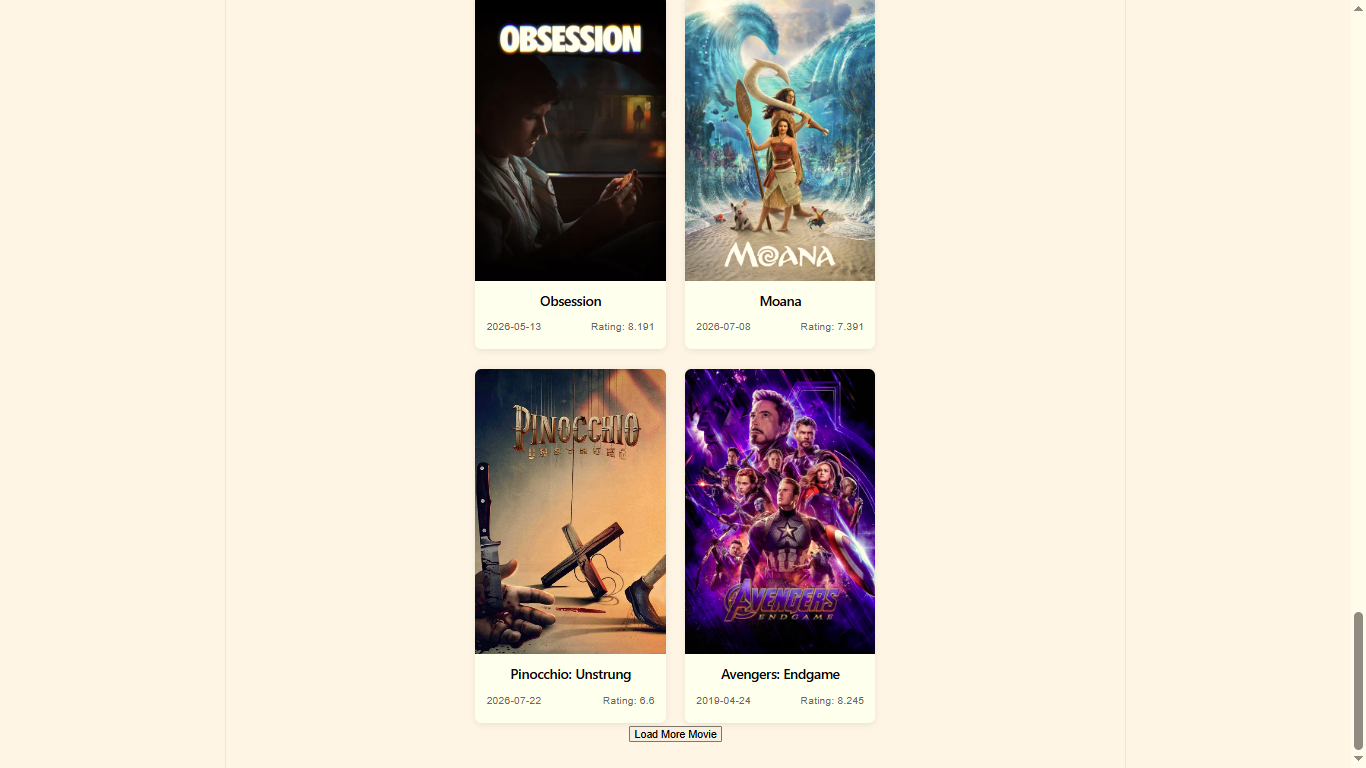
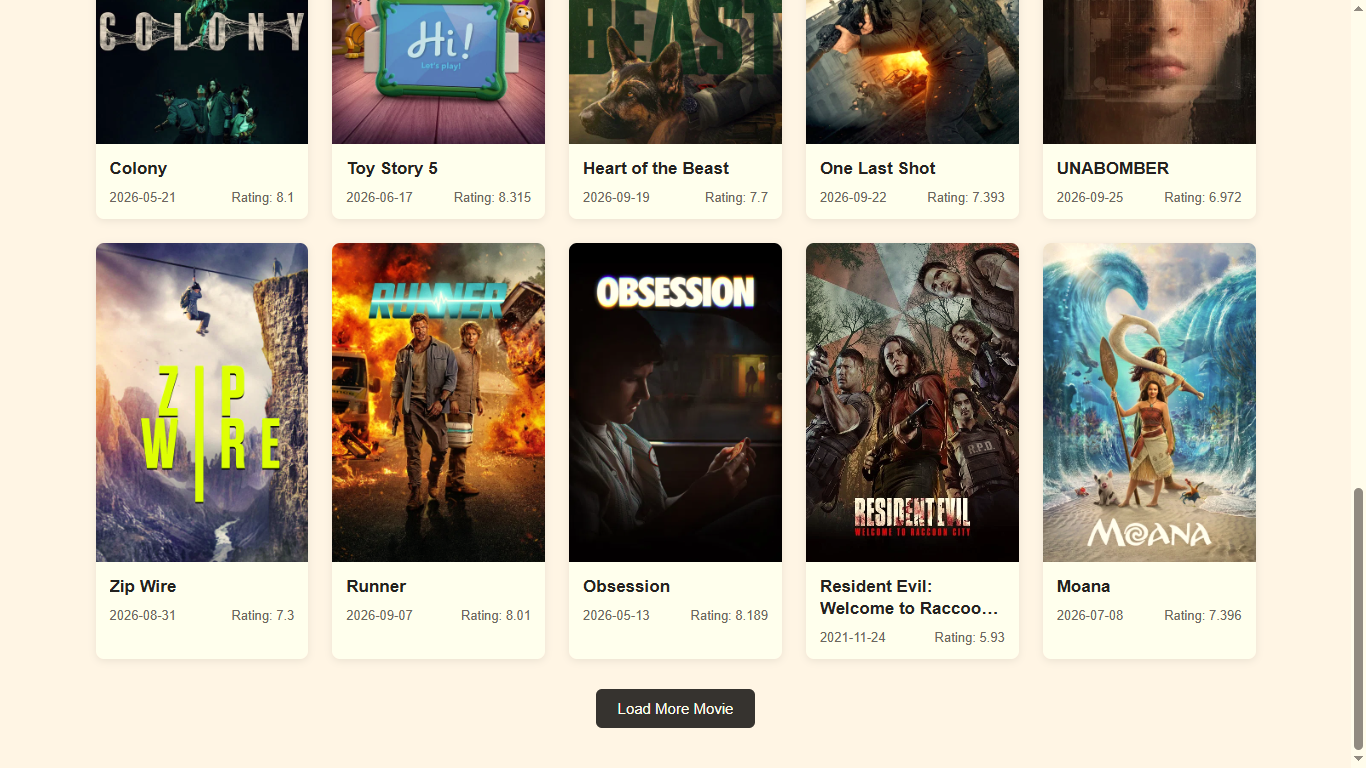
First Commit

diff --git a/frontend/src/index.css b/frontend/src/index.css
@@ -1,115 +1,15 @@
-:root {
-  --text: #6b6375;
-  --text-h: #08060d;
-  --bg: #fff;
-  --border: #e5e4e7;
-  --code-bg: #f4f3ec;
-  --accent: #aa3bff;
-  --accent-bg: rgba(170, 59, 255, 0.1);
-  --accent-border: rgba(170, 59, 255, 0.5);
-  --social-bg: rgba(244, 243, 236, 0.5);
-  --shadow:
-    rgba(0, 0, 0, 0.1) 0 10px 15px -3px, rgba(0, 0, 0, 0.05) 0 4px 6px -2px;
-
-  --sans: system-ui, 'Segoe UI', Roboto, sans-serif;
-  --heading: system-ui, 'Segoe UI', Roboto, sans-serif;
-  --mono: ui-monospace, Consolas, monospace;
-
-  font: 18px/145% var(--sans);
-  letter-spacing: 0.18px;
-  color-scheme: light dark;
-  color: var(--text);
-  background: var(--bg);
-  font-synthesis: none;
-  text-rendering: optimizeLegibility;
-  -webkit-font-smoothing: antialiased;
-  -moz-osx-font-smoothing: grayscale;
-
-  @media (max-width: 1024px) {
-    font-size: 16px;
-  }
-}
-
-@media (prefers-color-scheme: dark) {
-  :root {
-    --text: #9ca3af;
-    --text-h: #f3f4f6;
-    --bg: #16171d;
-    --border: #2e303a;
-    --code-bg: #1f2028;
-    --accent: #c084fc;
-    --accent-bg: rgba(192, 132, 252, 0.15);
-    --accent-border: rgba(192, 132, 252, 0.5);
-    --social-bg: rgba(47, 48, 58, 0.5);
-    --shadow:
-      rgba(0, 0, 0, 0.4) 0 10px 15px -3px, rgba(0, 0, 0, 0.25) 0 4px 6px -2px;
-  }
-
-  #social .button-icon {
-    filter: invert(1) brightness(2);
-  }
-}
-
-body {
-  margin: 0;
-}
-
-#root {
-  width: 100%;
-  max-width: 1126px;
-  margin: 0 auto;
-  text-align: center;
-  border-inline: 1px solid var(--border);
-  min-height: 100svh;
-  display: flex;
-  flex-direction: column;
+* {
   box-sizing: border-box;
 }
 
-h1,
-h2 {
-  font-family: var(--heading);
-  font-weight: 500;
-  color: var(--text-h);
-}
-
-h1 {
-  font-size: 56px;
-  letter-spacing: -1.68px;
-  margin: 32px 0;
-  @media (max-width: 1024px) {
-    font-size: 36px;
-    margin: 20px 0;
-  }
-}
-h2 {
-  font-size: 24px;
-  line-height: 118%;
-  letter-spacing: -0.24px;
-  margin: 0 0 8px;
-  @media (max-width: 1024px) {
-    font-size: 20px;
-  }
-}
-p {
+html,
+body,
+#root {
   margin: 0;
+  width: 100%;
+  min-height: 100%;
 }
 
-code,
-.counter {
-  font-family: var(--mono);
-  display: inline-flex;
-  border-radius: 4px;
-  color: var(--text-h);
-}
-
-code {
-  font-size: 15px;
-  line-height: 135%;
-  padding: 4px 8px;
-  background: var(--code-bg);
-}
-
-html {
-  overflow-y: scroll;
+body {
+  font-family: Arial, sans-serif;
 }

diff --git a/frontend/src/App.css b/frontend/src/App.css
@@ -20,6 +20,15 @@ main {
   padding: 30px 20px;
 }
 
+.home-page > h1 {
+  text-align: center;
+}
+
+.home-page > h2 {
+  text-align: center;
+  margin: 30px 0 24px;
+}
+
 .movie-grid {
   display: grid;
   grid-template-columns: repeat(auto-fill, minmax(180px, 1fr));
@@ -299,6 +308,27 @@ main {
   color: #666;
 }
 
+.load-more-button {
+  display: block;
+  margin: 30px auto 10px;
+  padding: 11px 22px;
+  border: none;
+  border-radius: 6px;
+  background: #111;
+  color: white;
+  font-size: 15px;
+  cursor: pointer;
+}
+
+.load-more-button:hover {
+  background: #333;
+}
+
+.load-more-button:disabled {
+  opacity: 0.6;
+  cursor: not-allowed;
+}
+
 @media (max-width: 800px) {
   .wishlist-grid {
     grid-template-columns: repeat(2, 1fr);
@@ -308,5 +338,47 @@ main {
 @media (max-width: 550px) {
   .wishlist-grid {
     grid-template-columns: 1fr;
+  }
+}
+
+@media (max-width: 800px) {
+  .movie-details {
+    padding: 25px 16px;
+  }
+
+  .movie-details-container {
+    grid-template-columns: 1fr;
+    gap: 30px;
+  }
+
+  .movie-details-poster {
+    display: flex;
+    justify-content: center;
+  }
+
+  .movie-details-poster img {
+    width: 100%;
+    max-width: 280px;
+  }
+
+  .movie-details-content {
+    width: 100%;
+    text-align: center;
+  }
+
+  .movie-details-content h1 {
+    font-size: 32px;
+  }
+
+  .movie-tagline {
+    font-size: 17px;
+  }
+
+  .movie-info p {
+    font-size: 15px;
+  }
+
+  .overview-section {
+    text-align: left;
   }
 }

diff --git a/frontend/src/pages/Home.jsx b/frontend/src/pages/Home.jsx
@@ -120,7 +120,7 @@ function Home() {
   }
 
   return (
-    <main>
+    <main className="home-page">
       <h1>Movie Discovery</h1>
 
       <div className="search-section">
@@ -199,6 +199,7 @@ function Home() {
 
           {hasMore && (
             <button
+              className="load-more-button"
               onClick={loadMoreMovies}
               disabled={loadingMore}
             >
